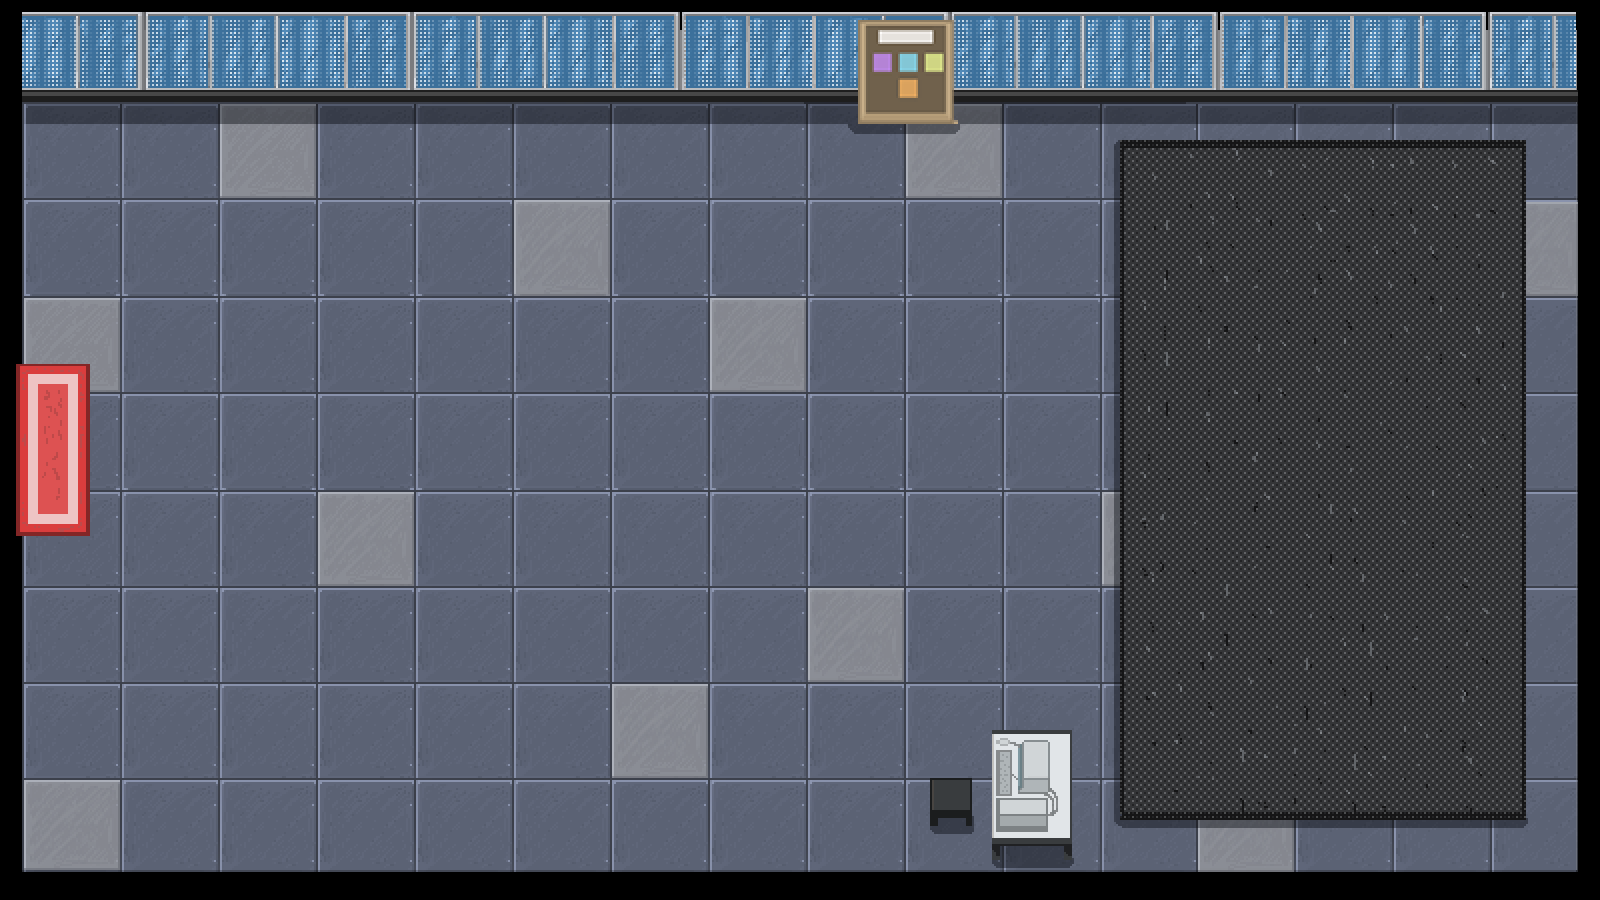
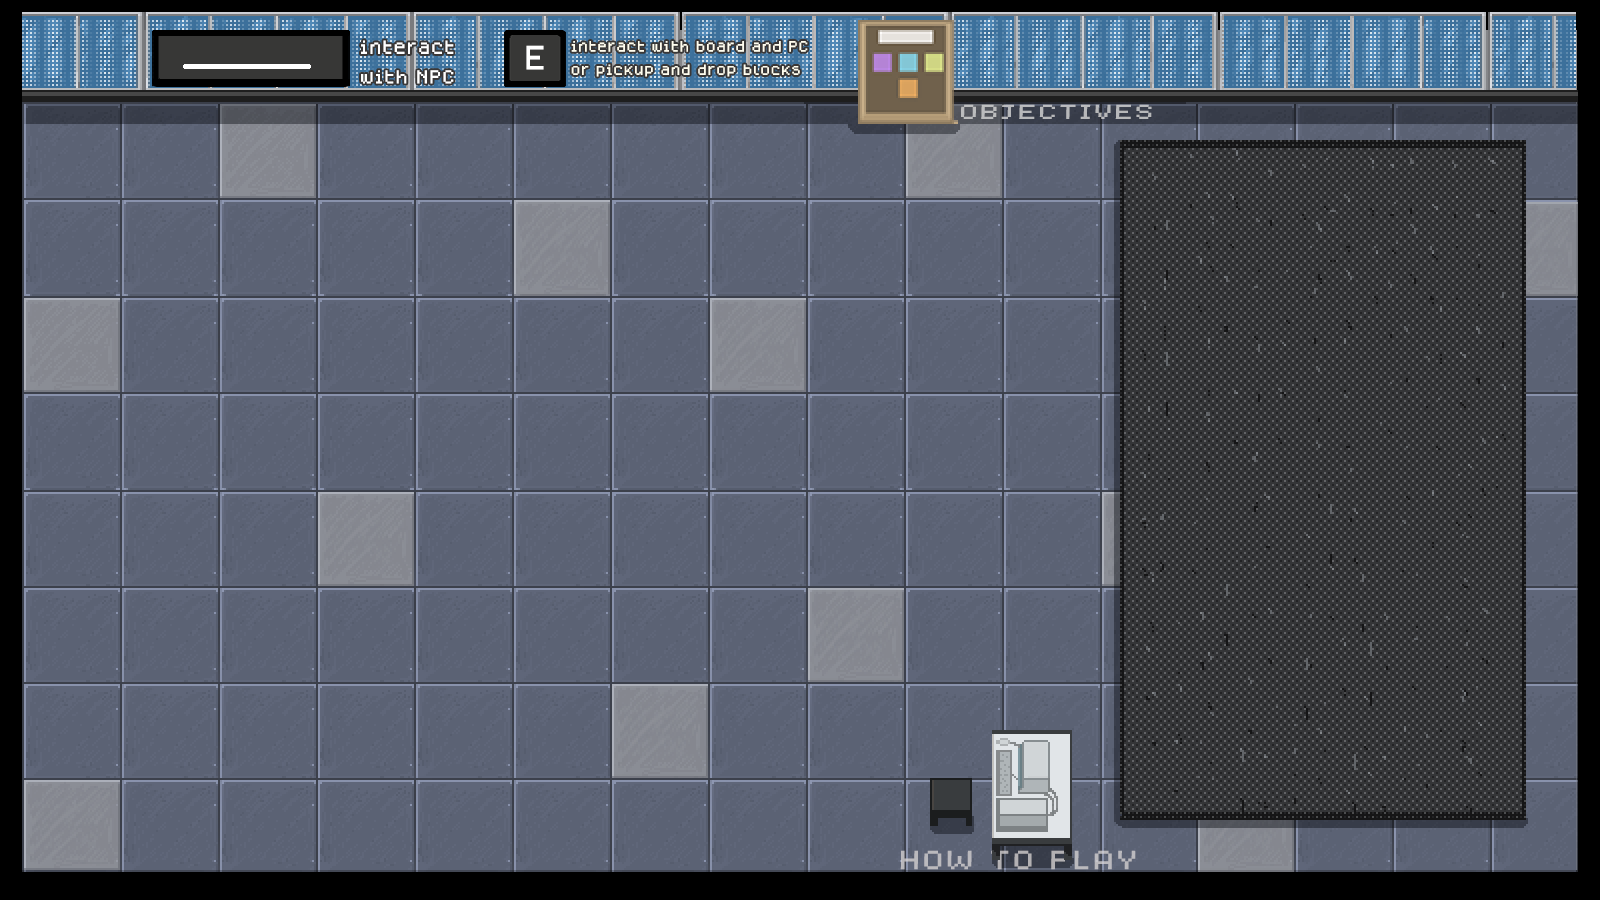
NPC

diff --git a/core/src/com/codex/learning/entity/characters/NPC.java b/core/src/com/codex/learning/entity/characters/NPC.java
@@ -325,7 +325,7 @@ public class NPC extends Entity {
 
     public void npcInteraction(float delta){
 
-        if(isInContact() && Gdx.input.isKeyJustPressed(Input.Keys.E)){
+        if(isInContact() && Gdx.input.isKeyJustPressed(Input.Keys.SPACE)){
             dialogBoxContainer.setVisible(true);
             setTalking(true);
             if(!db.isOpen()){
